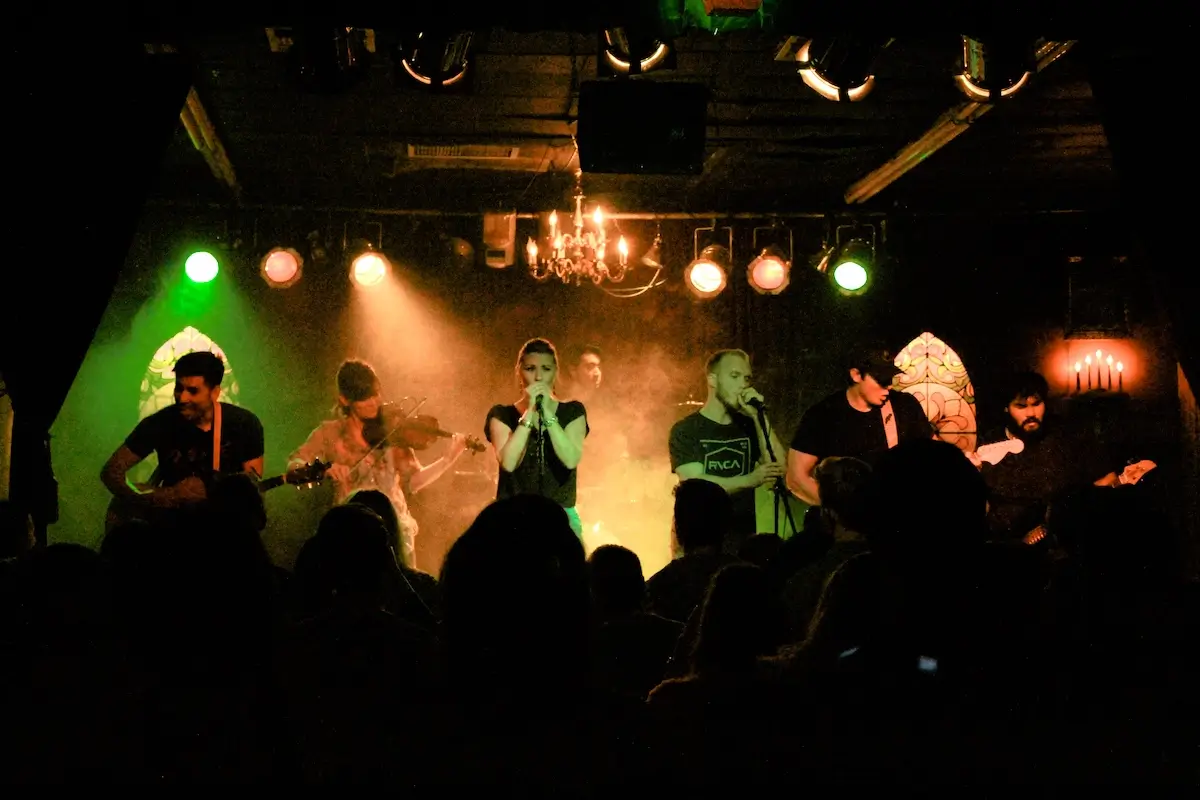
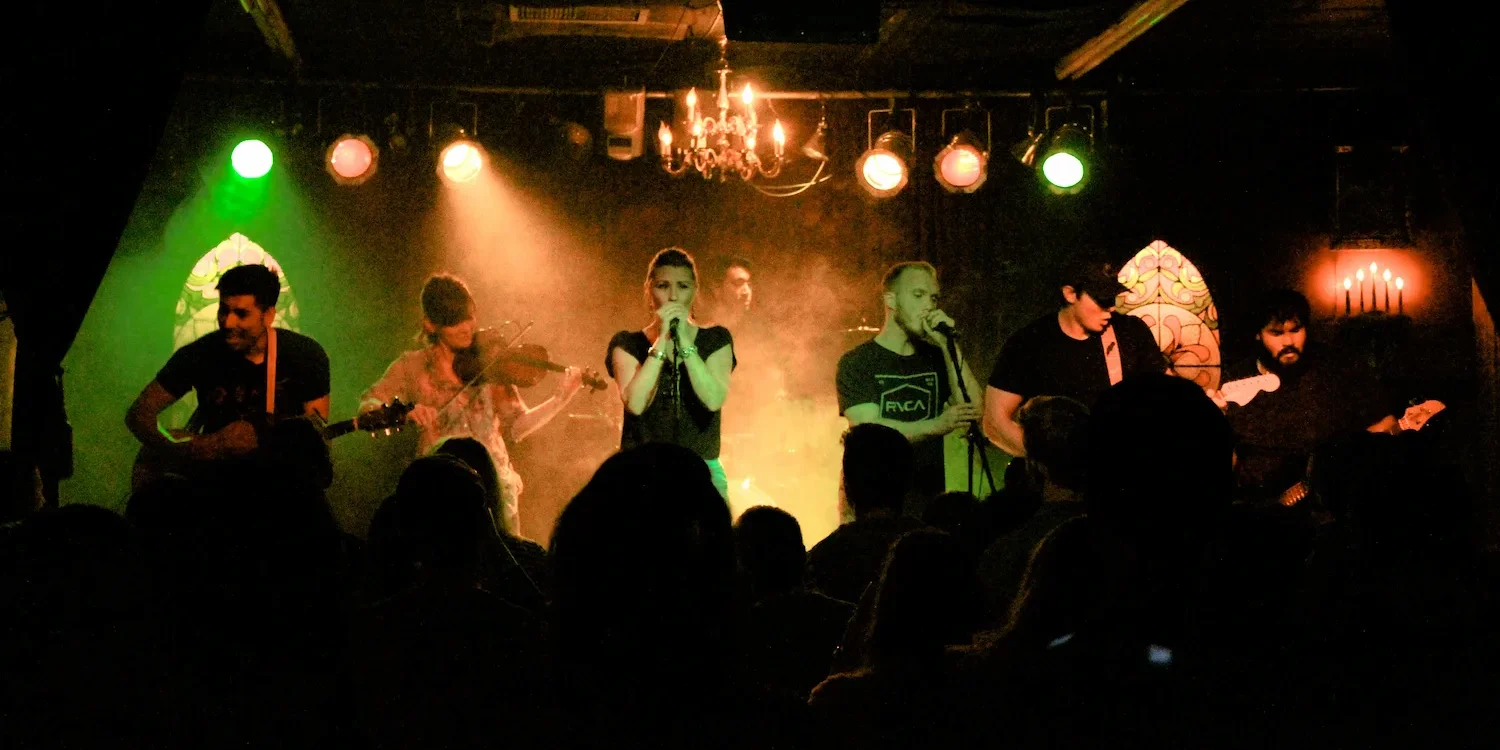
bvh updates

diff --git a/backviewheights/index.html b/backviewheights/index.html
@@ -8,41 +8,69 @@
     <meta name="description" content="The home page of The Backview Heights music.">
     <meta name="author" content="Aaron Andrei M">
     <link rel="icon" href="bvh.ico">
+    <script src="scripts/getdates.js" defer></script>
+    <script src="scripts/navigation.js" defer></script>
     <link rel="stylesheet" href="styles/base.css">
+    <link rel="stylesheet" href="styles/large.css">
     <link rel="preconnect" href="https://fonts.googleapis.com">
     <link rel="preconnect" href="https://fonts.gstatic.com" crossorigin>
     <link
         href="https://fonts.googleapis.com/css2?family=Mukta+Malar:wght@200;300;400;500;600;700;800&family=Special+Gothic+Expanded+One&display=swap"
         rel="stylesheet">
+
 </head>
 
 <body>
-    <header class="hero">
-        <div class="overlay">
-            <button id="menu-toggle">☰</button>
-            <nav id="nav-menu" class="collapsed">
-                <a href="#">Home</a>
-                <a href="#">Music</a>
-                <a href="#">About</a>
-                <a href="#">Contact</a>
-            </nav>
-            <h1>the backview heights</h1>
-        </div>
-        <div id="socials">
-            <a href="https://www.facebook.com/thebackviewheights" target="_blank"><img src="images/facebook-50.png"
-                    alt="Facebook logo."></a>
-            <a href="https://www.youtube.com/@thebackviewheights" target="_blank"><img src="images/youtube-50.png"
-                    alt="Youtube logo."></a>
-            <a href="https://x.com/BackViewHeights" target="_blank"><img src="images/twitter-x-50.png"
-                    alt="Twitter/X logo."></a>
-            <a href="https://soundcloud.com/thebackviewheights" target="_blank"><img src="images/soundcloud-50.png"
-                    alt="Soundcloud logo."></a>
+    <header>
+        <button id="navbutton"></button>
+        <div class="logo">
+            <h1>
+                <a href="#">the backview heights</a>
+            </h1>
         </div>
     </header>
+    <nav>
+        <ul class="menulinks">
+            <li class="active"><a href="#" title="Home">Home</a></li>
+            <li><a href="#" title="Music & Videos">Music + Video</a></li>
+            <li><a href="#" title="News">News</a></li>
+            <li><a href="#" title="Subscribe">Subscribe</a></li>
+        </ul>
+    </nav>
     <main>
-
+        <picture class="hero">
+            <source srcset="images/backviewheights-hero.webp" media="(min-width: 600px)">
+            <img src="images/backviewheights-hero-small.webp" alt="Stage with drumset and a Backveiw Heights sign."
+                loading="lazy">
+        </picture>
+        <div id="socials">
+            <a href="https://www.facebook.com/thebackviewheights" target="_blank"><img
+                    src="images/icons8-facebook-2.svg" alt="Facebook logo."></a>
+            <a href="https://www.youtube.com/@thebackviewheights" target="_blank"><img src="images/icons8-youtube.svg"
+                    alt="Youtube logo."></a>
+            <a href="https://x.com/BackViewHeights" target="_blank"><img src="images/icons8-x.svg"
+                    alt="Twitter/X logo."></a>
+            <a href="https://soundcloud.com/thebackviewheights" target="_blank"><img src="images/icons8-soundcloud.svg"
+                    alt="Soundcloud logo."></a>
+        </div>
+        <div class="shows">
+            <h2>Shows</h2>
+        </div>
     </main>
-    <footer></footer>
+    <footer>
+        <p><a href="mailto:thebackviewheights@gmail.com">thebackviewheights@gmail.com</a></p>
+        <div class="footer-socials">
+            <a href="https://www.facebook.com/thebackviewheights" target="_blank"><img
+                    src="images/icons8-facebook-2.svg" alt="Facebook logo."></a>
+            <a href="https://www.youtube.com/@thebackviewheights" target="_blank"><img src="images/icons8-youtube.svg"
+                    alt="Youtube logo."></a>
+            <a href="https://x.com/BackViewHeights" target="_blank"><img src="images/icons8-x.svg"
+                    alt="Twitter/X logo."></a>
+            <a href="https://soundcloud.com/thebackviewheights" target="_blank"><img src="images/icons8-soundcloud.svg"
+                    alt="Soundcloud logo."></a>
+        </div>
+        <p><span id="currentYear"></span> The Backview Heights</p>
+    </footer>
 </body>
 
 </html>

diff --git a/backviewheights/styles/base.css b/backviewheights/styles/base.css
@@ -7,21 +7,133 @@
     --main-font: 'Mukta Malar', 'Trebuchet MS', sans-serif;
 }
 
-body {
+* {
+    box-sizing: border-box;
     margin: 0;
+    padding: 0;
+}
+
+body {
+    margin: 0 auto;
     padding: 0;
     font-family: var(--main-font);
     color: var(--black);
     background-color: var(--beige);
+    min-width: 369px;
 }
 
-* {
-    box-sizing: border-box;
-    margin: 0 auto;
+header {
+    display: grid;
+    grid-template-columns: 50px auto 50px;
+    padding: .7rem;
+}
+
+/* Hero styles */
+.hero img {
+    width: 100%;
+    height: 100%;
+    object-fit: cover;
+    margin-top: -65.37px;
+    z-index: -2;
+}
+
+
+.logo h1 {
+    text-align: center;
+    font-size: 1.6rem;
+    filter: drop-shadow(3px 3px 3px rgba(0, 0, 0, 0.9));
+}
+
+.logo a {
+    position: relative;
+    text-decoration: none;
+    color: var(--beige);
+}
+
+/* Nav */
+#navbutton {
+    background: none;
+    border: none;
+    font-size: 2rem;
+    z-index: 101;
+    color: var(--beige);
+    position: relative;
+}
+
+#navbutton::before {
+    content: "☰";
+    filter: drop-shadow(3px 3px 3px rgba(0, 0, 0, 0.9));
+}
+
+#navbutton.open::before {
+    content: "×";
+}
+
+nav ul.menulinks {
+    position: fixed;
+    top: 0;
+    left: 0;
+    height: 100vh;
+    width: 100vw;
+    background-color: var(--black);
+    flex-direction: column;
+    justify-content: center;
+    align-items: center;
+    gap: 2rem;
+    transform: translateY(-100%);
+    transition: transform 0.3s ease-in-out, opacity 0.3s ease-in-out;
+    border: 1px solid var(--black);
+    z-index: 100;
+    opacity: 0;
+    pointer-events: none;
+}
+
+nav ul.menulinks a {
+    font-size: 1.5rem;
+    padding: 1rem;
+    text-decoration: none;
+    color: var(--beige);
     text-align: center;
 }
 
-ul {
-    list-style-type: none;
-    padding: 0;
+nav ul.menulinks.show {
+    transform: translateY(0);
+    display: flex;
+    opacity: 1;
+    pointer-events: auto;
+}
+
+/* Socials on top of hero */
+#socials {
+    text-align: center;
+    gap: 1rem;
+    margin-top: -70px;
+    z-index: 1;
+}
+
+#socials img {
+    max-width: 44px;
+    filter: drop-shadow(3px 3px 3px rgba(0, 0, 0, 0.9));
+}
+
+.shows {
+    margin: 1rem;
+    text-align: center;
+}
+
+footer {
+    background-color: var(--black);
+    text-align: center;
+}
+
+footer a,
+footer p {
+    color: var(--beige);
+    text-decoration: none;
+    padding: .7rem;
+}
+
+.footer-socials img {
+    max-width: 44px;
+    margin: .7rem 0;
 }

diff --git a/backviewheights/styles/large.css b/backviewheights/styles/large.css
@@ -1,0 +1,29 @@
+@media (min-width: 64rem) {
+    #navbutton {
+        display: none;
+    }
+
+    header {
+        display: block;
+        text-align: center;
+    }
+
+    nav {
+        display: flex;
+        justify-content: center;
+
+    }
+
+    ul.menulinks {
+        display: flex;
+        flex-direction: row;
+        justify-content: center;
+    }
+
+    ul.menulins li a {
+        font-size: 1.1rem;
+        color: var(--beige);
+        text-decoration: none;
+    }
+
+}

diff --git a/backviewheights/scripts/navigation.js b/backviewheights/scripts/navigation.js
@@ -1,0 +1,9 @@
+document.addEventListener("DOMContentLoaded", () => {
+    const navButton = document.getElementById("navbutton");
+    const menu = document.querySelector(".menulinks");
+
+    navButton.addEventListener("click", () => {
+        menu.classList.toggle("show");
+        navButton.classList.toggle("open");
+    });
+});

diff --git a/backviewheights/scripts/getdates.js b/backviewheights/scripts/getdates.js
@@ -1,0 +1,2 @@
+let d = new Date();
+document.getElementById("currentYear").innerHTML = `&copy;${d.getFullYear()}`;
